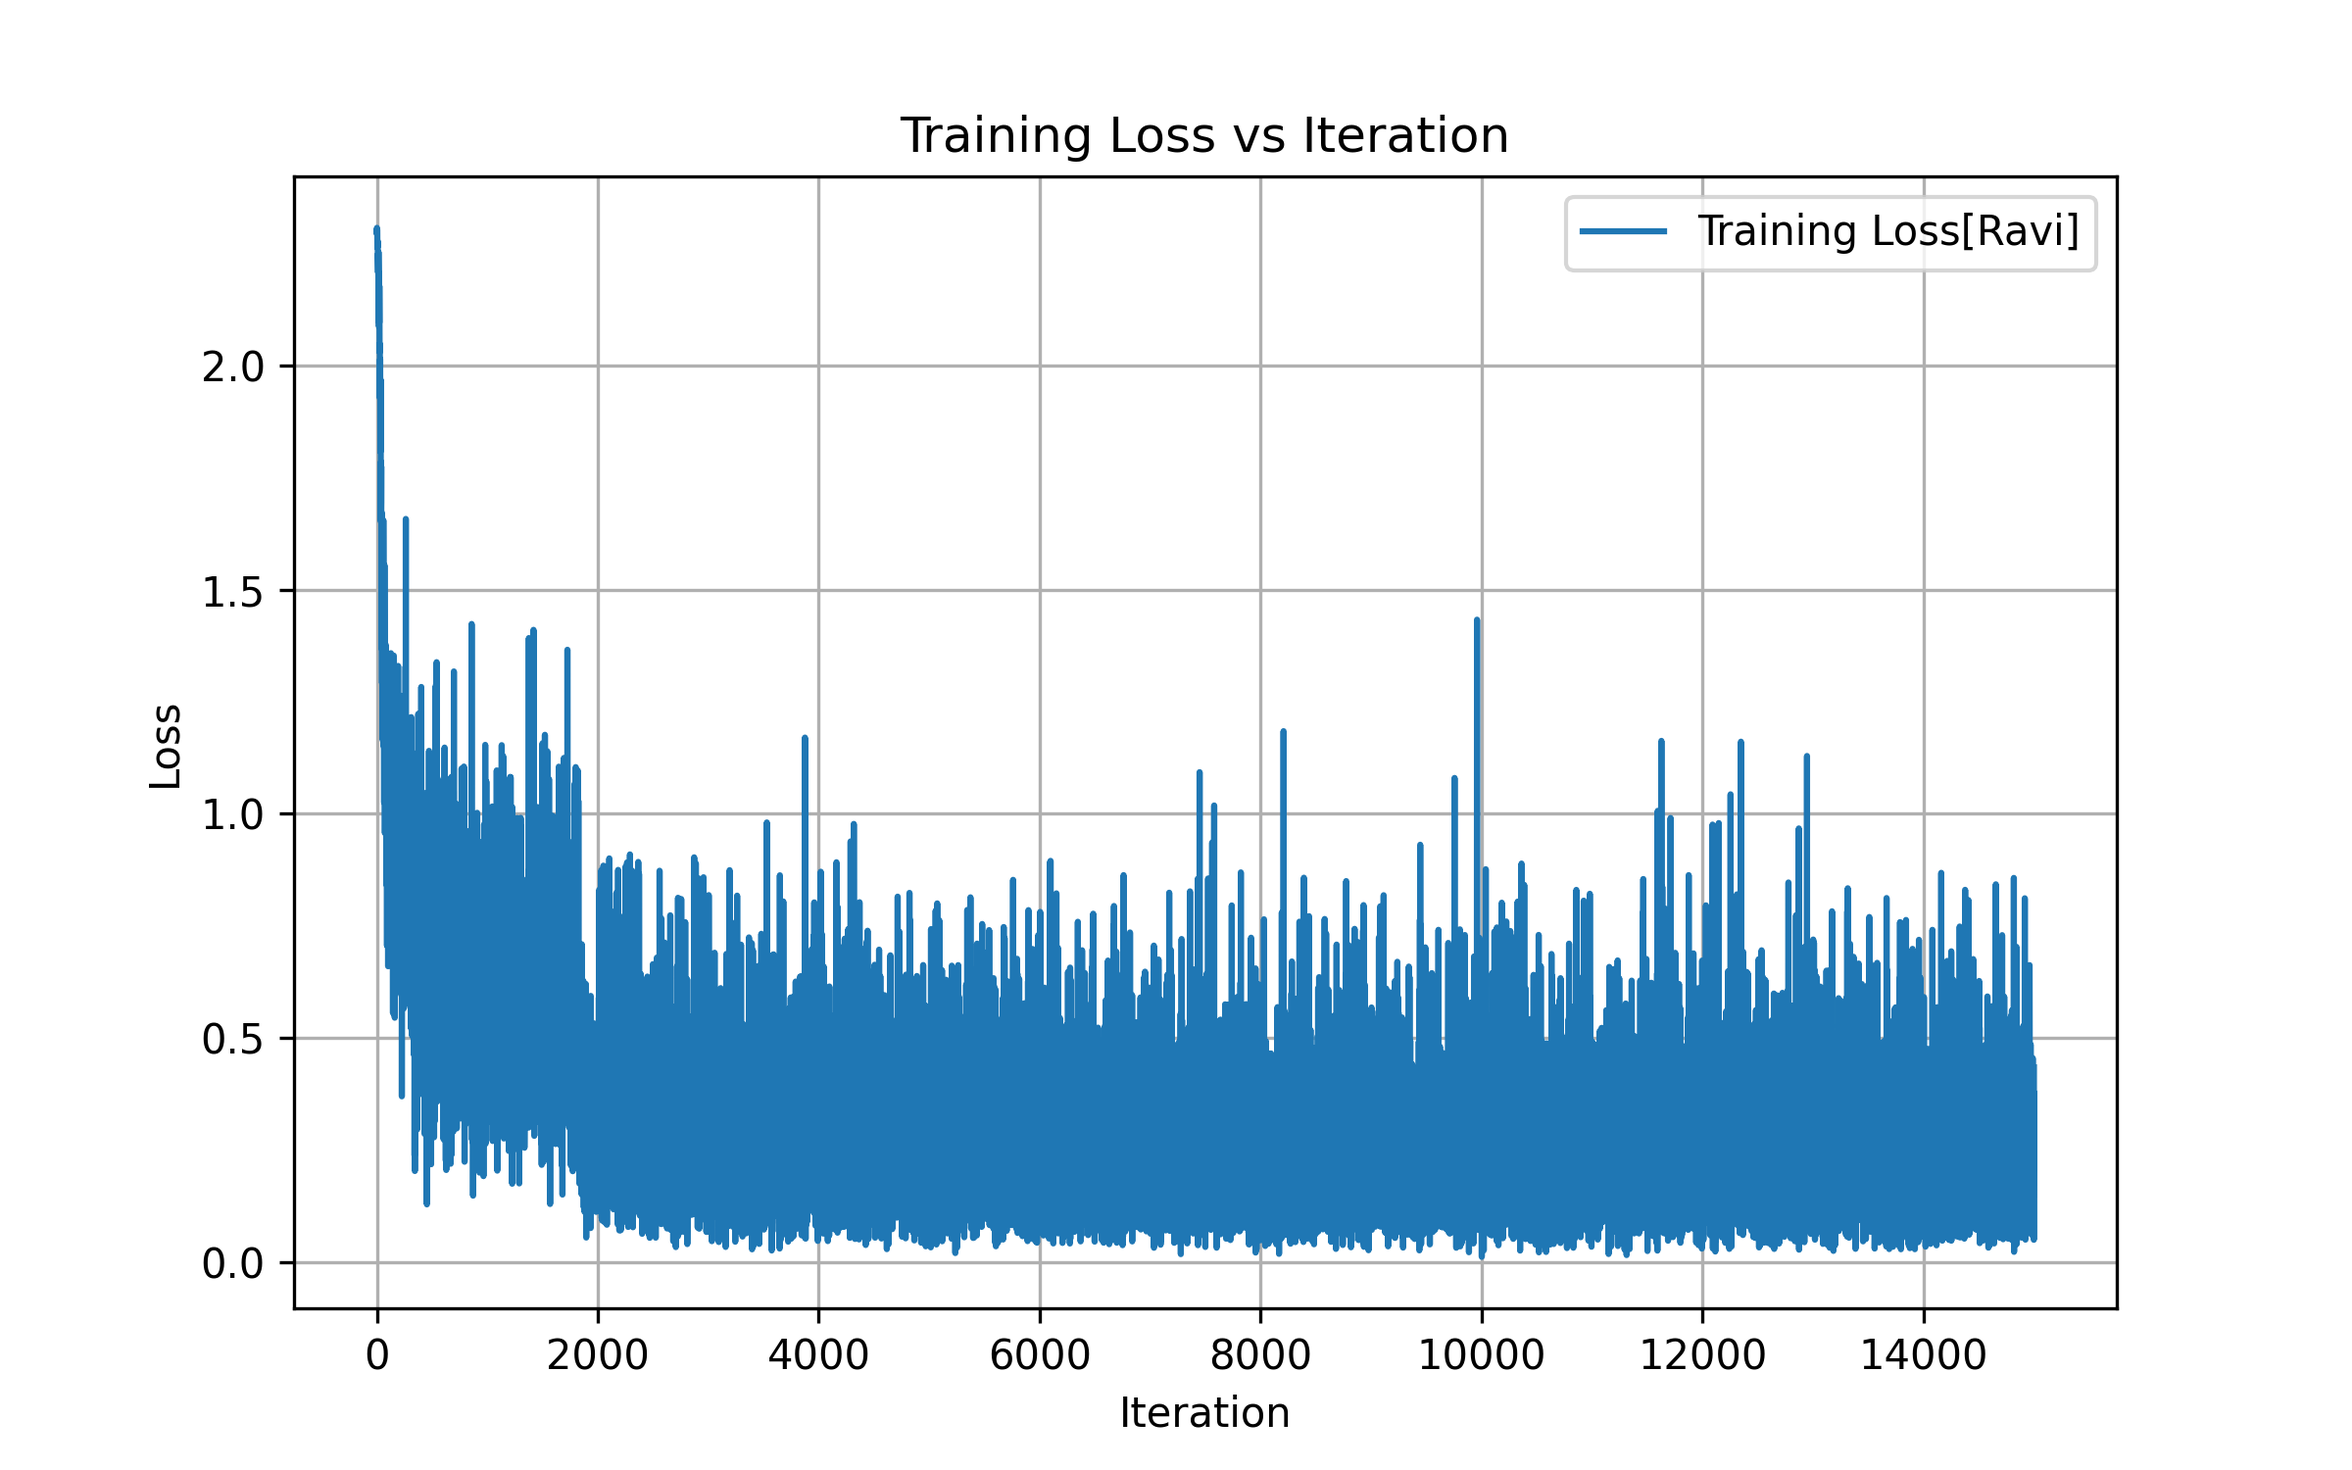
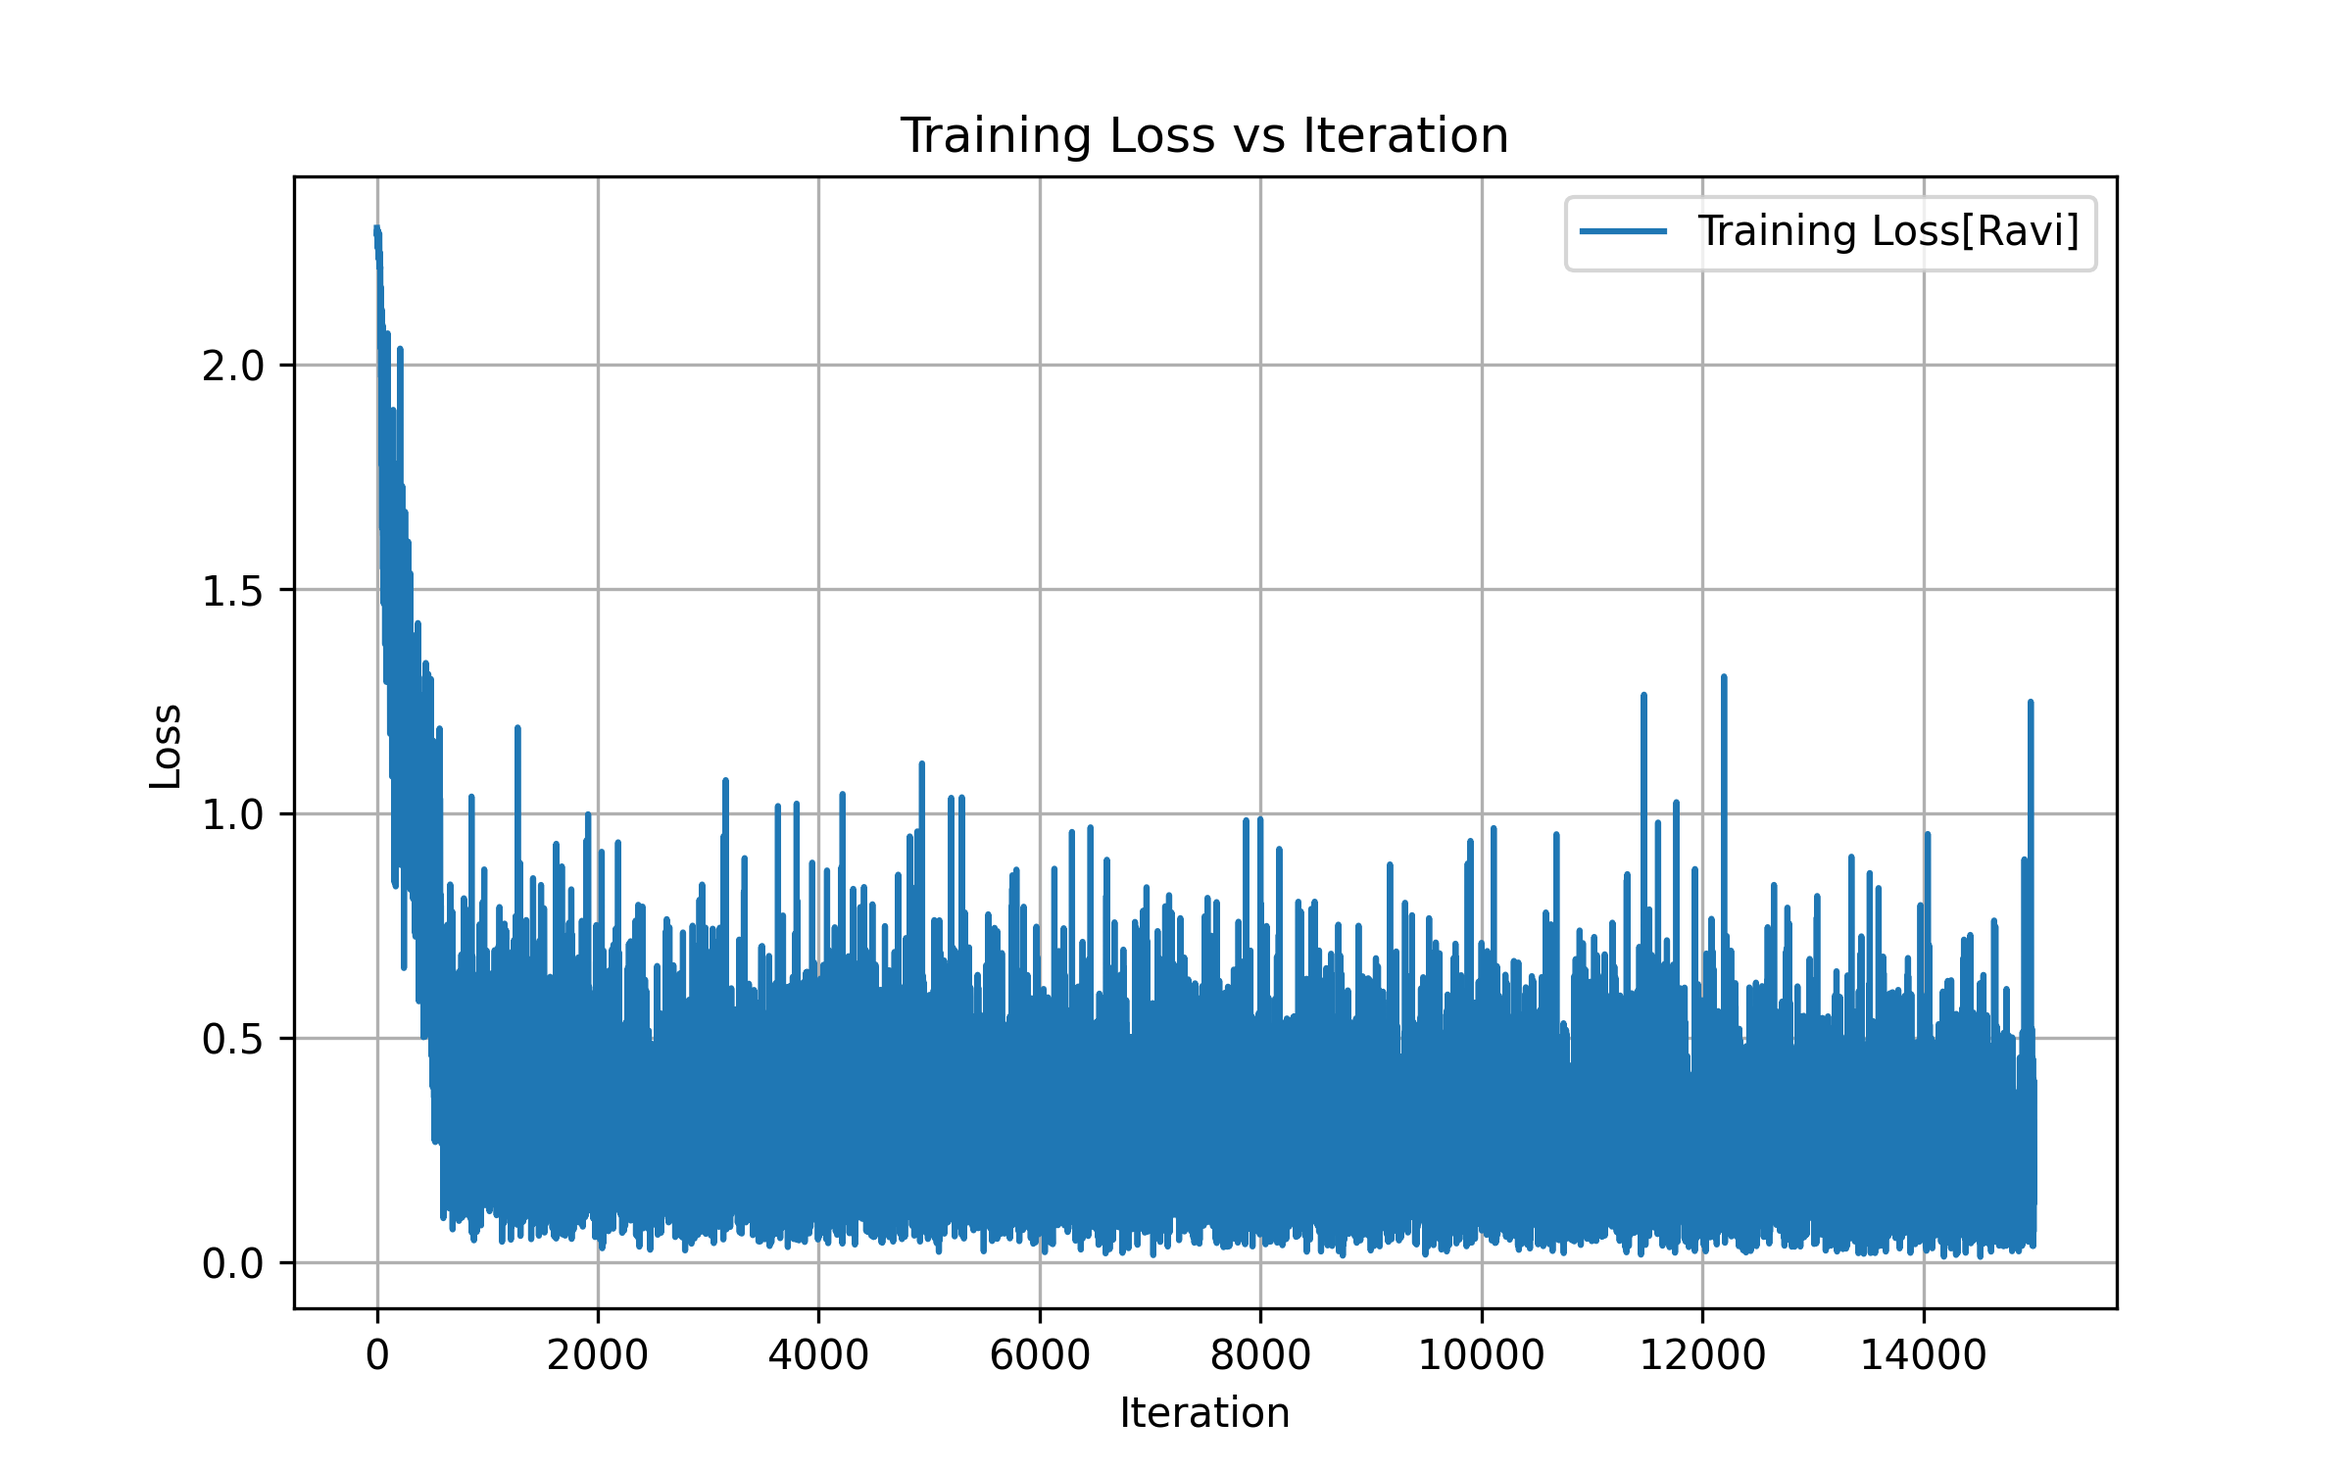
Finished Rough Draft of Problem 3

Changed region(s): [[0.1562, 0.2147, 0.875, 0.8587]]

diff --git a/Homework #1/problem3.py b/Homework #1/problem3.py
@@ -1,6 +1,11 @@
 # Ravi Raghavan, Homework #1, Problem 3
 
+# Throughout the entire problem, I set the random state here for reproducability
+random_state = 42
+
 ## Part (a)
+
+### Load Data from torchvision
 import torchvision as thv
 train = thv.datasets.MNIST("./", download=True, train=True)
 val = thv.datasets.MNIST("./", download=True, train=False)
@@ -10,6 +15,7 @@ print(val.data.shape, len(val.targets))
 
 ### Convert everything to numpy. From here on out, NO Torch/Other Deep Learning Library 
 import numpy as np
+np.random.seed(random_state)
 X_train = train.data.numpy()
 y_train = train.targets.numpy()
 X_val = val.data.numpy()
@@ -18,7 +24,7 @@ y_val = val.targets.numpy()
 print("Part (a): Print out shape of X_train, y_train, X_val, and y_val after converting to numpy")
 print(X_train.shape, y_train.shape, X_val.shape, y_val.shape)
 
-### Take 50% of each class from training and validation
+### Given X and y, where X contains training samples and y contains labels, keep only 50% of each class! 
 def downsample(X, y):
     # Store downsampled X and y
     X_downsampled, y_downsampled = [], []
@@ -33,6 +39,7 @@ def downsample(X, y):
     
     return np.concatenate(X_downsampled, axis = 0), np.concatenate(y_downsampled, axis = 0)
 
+### Perform downsampling on X_train, y_train, X_val, y_val
 X_train, y_train = downsample(X_train, y_train)
 X_val, y_val = downsample(X_val, y_val)
 
@@ -247,16 +254,7 @@ class softmax_cross_entropy_t:
 
 ## Part (f): Check implementation of forward and backward functionalities for all layers
 
-### Checking Linear Layer [ Forward + Backward ]
-def check_forward_linear():
-    layer = linear_t()
-    hl = np.random.randn(1, 392)
-    out1 = layer.forward(hl)
-    out2 = hl @ layer.w.T + layer.b
-    np.testing.assert_allclose(out1, out2, rtol=1e-6, atol=1e-6)
-
-# check_forward_linear()
-
+### Checking Linear Layer Backward
 #indices_W must be passed as a list of tuples
 #indices_b must be passed as list
 #indices_h must be passed as list
@@ -300,7 +298,7 @@ def check_backward_linear(k, indices_W, indices_b, indices_h):
         np.testing.assert_allclose(dhl[0, i], deriv_h, rtol=1e-6, atol=1e-6)
 
 def test_backward_linear_random_indices():
-    rng = np.random.default_rng(seed=42) # Set seed for reproducability
+    rng = np.random.default_rng()
 
     # Sample 5 values of k
     k_values = rng.choice(10, size=5, replace=False)
@@ -318,18 +316,7 @@ def test_backward_linear_random_indices():
         # Run the gradient check for this k
         check_backward_linear(k, indices_W, indices_b, indices_h)
 
-# test_backward_linear_random_indices()
-
-### Checking ReLU Layer
-def check_forward_relu():
-    layer = relu_t()
-    hl = np.random.randn(1, 10)
-    out1 = layer.forward(hl)
-    out2 = np.maximum(0, hl)
-    np.testing.assert_allclose(out1, out2, rtol=1e-6, atol=1e-6)
-
-# check_forward_relu()
-
+### Checking ReLU Backward Propagation
 def check_backward_relu(k, indices_h):
     layer = relu_t()
     hl = np.random.randn(1, 10)
@@ -351,7 +338,7 @@ def check_backward_relu(k, indices_h):
         np.testing.assert_allclose(dhl[0, i], deriv_h, rtol=1e-6, atol=1e-6)
 
 def test_backward_relu_random_indices():
-    rng = np.random.default_rng(seed=42) # Set seed for reproducability
+    rng = np.random.default_rng()
 
     # Sample 5 values of k
     k_values = rng.choice(10, size=5, replace=False)
@@ -363,10 +350,9 @@ def test_backward_relu_random_indices():
         # Run the gradient check for this k
         check_backward_relu(k, indices_h)
 
-# test_backward_relu_random_indices()
 
 ### Test softmax_cross_entropy_t Function
-def softmax_cross_entropy(hl, y):
+def softmax_cross_entropy_utility(hl, y):
     # Flatten y as sanity check 
     y = y.flatten()
 
@@ -381,7 +367,10 @@ def softmax_cross_entropy(hl, y):
     correct_probs = hl_plus_1[np.arange(B), y]
     ell = -np.mean(np.log(correct_probs + 1e-12)) #Adding 1e-12 for numerical stability
 
-    return ell
+    y_pred = np.argmax(hl_plus_1, axis=1)
+    error = np.mean(y_pred != y)
+
+    return ell, error
 
 def check_backward_softmax(indices_h):
     layer = softmax_cross_entropy_t()
@@ -397,12 +386,14 @@ def check_backward_softmax(indices_h):
     for i in indices_h:
         eps = np.zeros(shape = hl.shape)
         eps[0, i] = np.random.normal(loc = 0.0, scale = 1e-8)
-        diff = (softmax_cross_entropy(hl + eps, y) - softmax_cross_entropy(hl - eps, y))
+        LHS, _ = softmax_cross_entropy_utility(hl + eps, y)
+        RHS, _ = softmax_cross_entropy_utility(hl - eps, y)
+        diff = LHS - RHS
         deriv_h = diff / (2 * eps)[0, i]
         np.testing.assert_allclose(dhl[0, i], deriv_h, rtol=1e-6, atol=1e-6)
 
 def test_backward_softmax_random_indices():
-    rng = np.random.default_rng(seed=42) # Set seed for reproducability
+    rng = np.random.default_rng()
 
     # For h (10,), pick 4 random indices
     indices_h = rng.choice(10, size=5, replace=False).tolist()
@@ -410,10 +401,9 @@ def test_backward_softmax_random_indices():
     # Run the gradient check for this k
     check_backward_softmax(indices_h)
     
-# test_backward_softmax_random_indices()
 
 ### Test embedding_t Function
-def embedding(hl, W, b):
+def embedding_utility(hl, W, b):
     # Store Batch Value
     B = hl.shape[0]
 
@@ -462,23 +452,23 @@ def check_backward_embedding(t, indices_W, indices_b, indices_h):
     for i, j, k in indices_W:
         eps = np.zeros(shape = W.shape)
         eps[i, j, k] = np.random.normal(loc = 0.0, scale = 1e-8)
-        deriv_W = (embedding(hl, W + eps, b) - embedding(hl, W - eps, b))[0, t] / (2 * eps)[i, j, k]
+        deriv_W = (embedding_utility(hl, W + eps, b) - embedding_utility(hl, W - eps, b))[0, t] / (2 * eps)[i, j, k]
         np.testing.assert_allclose(dw[i, j, k], deriv_W, rtol=1e-6, atol=1e-6)
     
     for i in indices_b:
         eps = np.zeros(shape = b.shape)
         eps[i] = np.random.normal(loc = 0.0, scale = 1e-8)
-        deriv_b = (embedding(hl, W, b + eps) - embedding(hl, W, b - eps))[0, t] / (2 * eps)[i]
+        deriv_b = (embedding_utility(hl, W, b + eps) - embedding_utility(hl, W, b - eps))[0, t] / (2 * eps)[i]
         np.testing.assert_allclose(db[i], deriv_b, rtol=1e-6, atol=1e-6)
     
     for i, j in indices_h:
         eps = np.zeros(shape = hl.shape)
         eps[0, i, j] = np.random.normal(loc = 0.0, scale = 1e-8)
-        deriv_h = (embedding(hl + eps, W, b) - embedding(hl - eps, W, b))[0, t] / (2 * eps)[0, i, j]
+        deriv_h = (embedding_utility(hl + eps, W, b) - embedding_utility(hl - eps, W, b))[0, t] / (2 * eps)[0, i, j]
         np.testing.assert_allclose(dhl[0, i, j], deriv_h, rtol=1e-6, atol=1e-6)
 
 def test_backward_embedding_random_indices():
-    rng = np.random.default_rng(seed=42) # Set seed for reproducability
+    rng = np.random.default_rng() # Set seed for reproducability
 
     # Sample 5 values of k
     t_values = rng.choice(10, size=5, replace=False)
@@ -496,9 +486,6 @@ def test_backward_embedding_random_indices():
         # Run the gradient check for this k
         check_backward_embedding(t, indices_W, indices_b, indices_h)
 
-# test_backward_embedding_random_indices()
-
-
 ## part (g)
 ### Dataset already loaded from part (a)
 X_train = X_train.astype(np.float32) / 255.0
@@ -511,10 +498,38 @@ net = [l1, l2, l3, l4]
 print("Part g: Print shapes of X_train and y_train again")
 print(f"X_train shape -> {X_train.shape}, y_train shape: {y_train.shape}")
 
+def validate(l1_w, l1_b, l2_w, l2_b):
+    # 1. iterate over mini-batches from the validation dataset
+    # note that this should not be done randomly, we want to check
+    # every image only once
+
+    loss, tot_error = 0, 0
+    for i in range(0, 5000, 32):
+        X_batch, y_batch = X_val[i: i + 32], y_val[i: i + 32]
+
+        # Compute forward pass
+        h1 = embedding_utility(X_batch, l1_w, l1_b)
+        h2 = h1 @ l2_w.T + l2_b
+        h3 = np.maximum(0, h2)
+        batch_loss, batch_error = softmax_cross_entropy_utility(h3, y_batch)
+
+        # Accumulate
+        B = X_batch.shape[0]
+        loss += batch_loss * B
+        tot_error += batch_error * B
+    
+    avg_loss = loss / X_val.shape[0]
+    avg_error = tot_error/ X_val.shape[0]
+    return avg_loss, avg_error
+
+
 # Train for at least 1000 iterations
 B = 32
 lr = 0.1
-training_loss = []
+training_losses = []
+training_errors = []
+validation_losses = []
+validation_errors = []
 epochs = 15000
 for t in range(epochs):
     # 1. sample a mini-batch of size = 32
@@ -547,7 +562,9 @@ for t in range(epochs):
     # 6. Print some quantities for logging
     if (t + 1) % 100 == 0:
         print(f"Epoch: {t + 1}, Loss: {ell}, Error: {error}")
-    training_loss.append(ell)
+    
+    training_losses.append(ell)
+    training_errors.append(error)
 
     # 7. one step of SGD
     l1.w = l1.w - lr*dw1
@@ -555,21 +572,43 @@ for t in range(epochs):
     l2.w = l2.w - lr*dw2
     l2.b = l2.b - lr*db2
 
+    # 8. Store validation loss/error every 1000 weight updates
+    if (t + 1) % 1000 == 0:
+        validation_loss, validation_error = validate(l1.w, l1.b, l2.w, l2.b)
+        validation_losses.append(validation_loss)
+        validation_errors.append(validation_error)
+
+# Store plot of training loss
 plt.figure(figsize=(8, 5))
-plt.plot(training_loss, label='Training Loss[Ravi]')
+plt.plot(training_losses, label='Training Loss[Ravi]')
 plt.xlabel('Iteration')
 plt.ylabel('Loss')
 plt.title('Training Loss vs Iteration')
 plt.legend()
 plt.grid(True)
 plt.savefig('training_loss_plot_ravi.png', dpi=300)
-print(f"Final Training Error: {error}, Final Training Loss: {ell}")
 
+# Store plot of validation loss
+plt.figure(figsize=(8, 5))
+plt.plot(validation_losses, label='Validation Loss[Ravi]')
+plt.xlabel('Iteration')
+plt.ylabel('Loss')
+plt.title('Validation Loss vs Iteration')
+plt.legend()
+plt.grid(True)
+plt.savefig('validation_loss_plot_ravi.png', dpi=300)
+
+# Print Final Metrics
+print(f"Final Training Error: {training_errors[-1]}, Final Training Loss: {training_losses[-1]}")
+print(f"Final Validation Error: {validation_errors[-1]}, Final Validation Loss: {validation_losses[-1]}")
 
 ### Test Implementation using PyTorch
 import torch
 import torch.nn as nn
 import torch.nn.functional as F
+import torch.optim as optim
+from torch.utils.data import TensorDataset, DataLoader
+torch.manual_seed(random_state)
 
 class EmbeddingLayer(nn.Module):
     def __init__(self):
@@ -603,9 +642,6 @@ class NN(nn.Module):
         return x
 
 ## Hyperparameters
-import torch.optim as optim
-from torch.utils.data import TensorDataset, DataLoader
-
 batch_size = 32
 lr = 0.1
 epochs = 15000
@@ -627,7 +663,10 @@ model = NN()
 criterion = nn.CrossEntropyLoss()
 optimizer = optim.SGD(model.parameters(), lr=lr)
 
-training_loss = []
+training_losses = []
+training_errors = []
+validation_losses = []
+validation_errors = []
 for epoch in range(epochs):
     model.train()
     
@@ -641,17 +680,65 @@ for epoch in range(epochs):
     loss = criterion(outputs, batch_y)
     loss.backward()
     optimizer.step()
+
+    _, predicted = torch.max(outputs, 1)
+    batch_error = (predicted != batch_y).float().mean().item() * 100
+
+    training_losses.append(loss.item())
+    training_errors.append(batch_error)
     
-    if (epoch + 1) % 100 == 0:  # print every 50 epochs
-        print(f'Epoch [{epoch+1}/{epochs}], Loss: {loss.item():.4f}')
-    training_loss.append(loss.item())
+    if (epoch + 1) % 100 == 0:
+        print(f'Epoch [{epoch+1}/{epochs}], Training Loss: {loss.item():.4f}, Training Error: {batch_error:.2f}%')
+    
+    # Run validation every 1000 weight updates
+    if (epoch + 1) % 1000 == 0:
+        model.eval()  # set model to evaluation mode
+        val_loss = 0.0
+        val_error = 0.0
+        
+        with torch.no_grad():  # disable gradient computation
+            for i in range(0, X_val_tensor.shape[0], batch_size):
+                X_val_batch = X_val_tensor[i: i + batch_size]
+                y_val_batch = y_val_tensor[i: i + batch_size]
+
+                # Forward pass
+                val_outputs = model(X_val_batch)
+                batch_loss = criterion(val_outputs, y_val_batch)
+
+                # Compute batch error (percentage misclassified)
+                _, predicted = torch.max(val_outputs, 1)
+                batch_error = (predicted != y_val_batch).float().mean().item() * 100
+
+                # Accumulate weighted loss and error
+                val_loss += batch_loss.item() * X_val_batch.size(0)
+                val_error += batch_error * X_val_batch.size(0)
+
+        # Average over all validation samples
+        avg_val_loss = val_loss / X_val_tensor.shape[0]
+        avg_val_error = val_error / X_val_tensor.shape[0]
+
+        print(f'--- Validation Loss: {avg_val_loss:.4f}, Validation Error: {avg_val_error:.2f}% ---')
+
+        validation_losses.append(avg_val_loss)
+        validation_errors.append(avg_val_error)
+        
+        model.train()  # switch back to training mode
 
 
 plt.figure(figsize=(8, 5))
-plt.plot(training_loss, label='Training Loss[PyTorch]')
+plt.plot(training_losses, label='Training Loss[PyTorch]')
 plt.xlabel('Iteration')
 plt.ylabel('Loss')
 plt.title('Training Loss vs Iteration')
 plt.legend()
 plt.grid(True)
 plt.savefig('training_loss_plot_torch.png', dpi=300)
+
+plt.figure(figsize=(8, 5))
+plt.plot(validation_losses, label='Validation Loss[PyTorch]')
+plt.xlabel('Iteration')
+plt.ylabel('Loss')
+plt.title('Validation Loss vs Iteration')
+plt.legend()
+plt.grid(True)
+plt.savefig('validation_loss_plot_torch.png', dpi=300)
